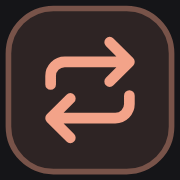
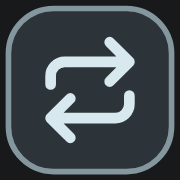
Build xgif around a layered glitch collage

Changed region(s): [[0.0278, 0.0278, 0.9722, 0.9722], [0.25, 0.1944, 0.75, 0.5], [0.25, 0.5, 0.75, 0.8056]]

diff --git a/src/style.css b/src/style.css
@@ -2,17 +2,17 @@
   color-scheme: dark;
   font-family: -apple-system, BlinkMacSystemFont, "Segoe UI", system-ui, sans-serif;
   color: #f4f3f1;
-  background: #151518;
+  background: #17191b;
   --muted: #b3b1b5;
-  --panel: #1f1f23;
-  --field: #17171a;
-  --edge: #3a393e;
-  --input-edge: #68666d;
-  --fill: #29292e;
-  --selected: #39383f;
-  --accent: #f3a389;
+  --panel: #202428;
+  --field: #171a1d;
+  --edge: #3e454a;
+  --input-edge: #69747a;
+  --fill: #2a3034;
+  --selected: #3a444b;
+  --accent: #b7d5de;
   --error: #ffc1aa;
-  --focus: #f3a389;
+  --focus: #d9e9ec;
 }
 
 * { box-sizing: border-box; }
@@ -29,33 +29,99 @@ button:disabled { cursor: wait; }
 fieldset { min-inline-size: 0; margin: 0; padding: 0; border: 0; }
 
 .workspace {
-  width: min(100% - 36px, 500px);
-  margin: clamp(84px, 21vh, 188px) auto 48px;
-}
-.intro { margin: 0 0 22px; }
-.identity { display: flex; align-items: center; gap: 10px; }
-.brand-mark {
+  position: relative;
+  isolation: isolate;
   display: grid;
-  width: 34px;
-  height: 34px;
-  place-items: center;
-  border: 1px solid #785349;
-  border-radius: 10px;
-  corner-shape: squircle;
-  background: #2e2424;
-  color: var(--accent);
+  align-items: center;
+  width: min(100% - 64px, 1080px);
+  min-height: clamp(430px, 48vw, 580px);
+  margin: clamp(62px, 12vh, 124px) auto 52px;
 }
-.brand-mark .icon { width: 19px; height: 19px; stroke-width: 1.8; }
-h1 { margin: 0; font-size: 29px; font-weight: 670; line-height: 1; letter-spacing: -.045em; }
-.intro p { margin: 10px 0 0; color: var(--muted); font-size: 15px; line-height: 1.5; text-wrap: pretty; }
+
+.collage {
+  position: absolute;
+  z-index: -1;
+  inset: 0 0 0 28%;
+  pointer-events: none;
+}
+.crop {
+  position: absolute;
+  display: grid;
+  grid-template-rows: 12px minmax(0, 1fr);
+  overflow: hidden;
+  border: 1px solid #8c9a9f;
+  border-radius: 3px;
+  background: #47545b;
+  box-shadow: 4px 8px 14px #070d13a6;
+  transition: transform 195ms ease-out;
+}
+.crop::before {
+  content: "";
+  width: 12px;
+  height: 4px;
+  margin: 4px 0 0 6px;
+  border-left: 4px solid #d4e3e6;
+  border-right: 4px solid #83939b;
+}
+.crop img { display: block; width: 100%; height: 100%; object-fit: cover; }
+.crop-left { inset: 14% 47% 32% 2%; transform: translate(-2px, 2px); }
+.crop-left img { object-position: 0 30%; filter: saturate(.65) brightness(.70); }
+.crop-tall { inset: 4% 0 20% 66%; transform: translate(0, 3px); }
+.crop-tall img { object-position: 81% 50%; filter: saturate(.9) brightness(.76); }
+.crop-main { inset: 20% 10% 21% 10%; background: #9aaeb6; border-color: #c6d2d7; }
+.crop-main::before { border-left-color: #2c383f; border-right-color: #6b7c85; }
+.crop-main img { object-position: center 47%; }
+.crop-strip {
+  inset: 51% 4% 41% 21%;
+  grid-template-rows: minmax(0, 1fr);
+  border-radius: 0;
+  transform: translate(8px, 0);
+  box-shadow: 0 3px #f0e6ce32;
+}
+.crop-strip::before { display: none; }
+.crop-strip img { object-position: 50% 58%; filter: saturate(1.2) contrast(1.1); }
+.crop-detail { inset: 72% 6% 3% 46%; transform: translate(-5px, 4px); }
+.crop-detail img { object-position: 20% 91%; transform: scale(1.55); transform-origin: 11% 80%; filter: saturate(.84) contrast(1.1); }
+.workspace:has(input[value="webp"]:checked) .crop-left { transform: translate(-10px, -4px); }
+.workspace:has(input[value="webp"]:checked) .crop-tall { transform: translate(-8px, -6px); }
+.workspace:has(input[value="webp"]:checked) .crop-main { transform: translate(5px, 4px); }
+.workspace:has(input[value="webp"]:checked) .crop-strip { transform: translate(-18px, 4px); }
+.workspace:has(input[value="webp"]:checked) .crop-detail { transform: translate(5px, -4px); }
 
 .panel {
-  border: 1px solid var(--edge);
-  border-radius: 19px;
-  corner-shape: squircle;
+  position: relative;
+  width: min(48%, 457px);
+  border: 1px solid #718087;
+  border-radius: 13px;
   background: var(--panel);
-  box-shadow: 0 6px 20px #0002;
+  box-shadow: 0 13px 38px #070b10a3, 0 0 0 1px #10161b;
 }
+.window-bar {
+  display: flex;
+  justify-content: space-between;
+  align-items: center;
+  min-height: 55px;
+  padding: 0 6px 0 13px;
+  border-bottom: 1px solid var(--edge);
+  border-radius: 12px 12px 0 0;
+  background: #2c3439;
+}
+.identity { display: flex; align-items: center; gap: 9px; }
+.brand-mark {
+  display: grid;
+  width: 28px;
+  height: 28px;
+  place-items: center;
+  border: 1px solid #84979e;
+  border-radius: 6px;
+  color: #d7e9ee;
+  background: #38484e;
+}
+.brand-mark .icon { width: 16px; height: 16px; stroke-width: 1.7; }
+h1 { margin: 0; font-size: 19px; font-weight: 700; line-height: 1; letter-spacing: -.03em; }
+.source-icon-link { display: grid; width: 44px; height: 44px; place-items: center; border-radius: 7px; color: #c1cfd5; }
+.source-icon-link .icon { width: 17px; height: 17px; }
+
 .editor { padding: 12px 12px 9px; }
 #controls { transition: opacity 140ms ease; }
 #controls:disabled { opacity: .68; }
@@ -171,22 +237,30 @@ h1 { margin: 0; font-size: 29px; font-weight: 670; line-height: 1; letter-spacin
 #result-help { margin: 9px 0 0; line-height: 1.45; text-wrap: pretty; }
 
 @media (hover: hover) {
-  .quiet:hover, .icon-button:hover, .secondary:hover { background: var(--selected); color: #fff; }
+  .quiet:hover, .icon-button:hover, .secondary:hover, .source-icon-link:hover { background: var(--selected); color: #fff; }
   .primary:hover { background: #fffdfa; }
 }
 @media (forced-colors: active) {
   .segments input:checked + span { border: 1px solid Highlight; }
 }
-@media (max-width: 520px) {
-  .workspace { margin-top: clamp(76px, 16vh, 115px); }
+@media (max-width: 740px) {
+  .workspace { display: block; width: min(100% - 34px, 500px); min-height: auto; margin: 32px auto 48px; }
+  .collage { position: relative; inset: auto; width: 100%; height: clamp(174px, 58vw, 310px); }
+  .crop-left { inset: 13% 44% 23% 3%; }
+  .crop-tall { inset: 4% 1% 12% 69%; }
+  .crop-main { inset: 17% 12% 13% 8%; }
+  .crop-strip { inset: 55% 8% 34% 19%; }
+  .crop-detail { inset: 69% 5% 2% 50%; }
+  .panel { width: 100%; margin-top: -15px; }
 }
+
 @media (max-width: 350px) {
-  .workspace { width: calc(100% - 26px); }
+  .workspace { width: calc(100% - 26px); margin-top: 25px; }
   #convert { min-width: 44px; }
   #convert span { display: none; }
 }
 @media (prefers-reduced-motion: reduce) {
-  .segments::before, #controls, .primary, .secondary, .quiet, .icon-button { transition: none; }
+  .crop, .segments::before, #controls, .primary, .secondary, .quiet, .icon-button { transition: none; }
   .accessories, .result, .trim-fields, .spinner { animation: none; }
   .primary:active, .secondary:active { transform: none; }
 }

diff --git a/index.html b/index.html
@@ -5,7 +5,7 @@
   <meta name="viewport" content="width=device-width, initial-scale=1">
   <meta name="description" content="Turn an X video into a GIF or animated WebP on your device.">
   <meta name="color-scheme" content="dark">
-  <meta name="theme-color" content="#151518">
+  <meta name="theme-color" content="#17191b">
   <title>xgif — X video to GIF and animated stickers</title>
   <link rel="canonical" href="https://wysh3.github.io/xgif/">
   <meta property="og:type" content="website">
@@ -32,18 +32,28 @@
     <symbol id="icon-share" viewBox="0 0 24 24"><path d="M12 15V3m-4 4 4-4 4 4M7 10H5a1 1 0 0 0-1 1v9a1 1 0 0 0 1 1h14a1 1 0 0 0 1-1v-9a1 1 0 0 0-1-1h-2"/></symbol>
     <symbol id="icon-copy" viewBox="0 0 24 24"><rect x="8" y="8" width="12" height="12" rx="2"/><path d="M16 8V6a2 2 0 0 0-2-2H6a2 2 0 0 0-2 2v8a2 2 0 0 0 2 2h2"/></symbol>
     <symbol id="icon-save" viewBox="0 0 24 24"><path d="M12 3v12m-5-5 5 5 5-5M4 16v4h16v-4"/></symbol>
+    <symbol id="icon-source" viewBox="0 0 24 24"><path d="m8 7-5 5 5 5m8-10 5 5-5 5M14 4l-4 16"/></symbol>
   </svg>
 
   <main class="workspace">
-    <header class="intro">
-      <div class="identity">
-        <span class="brand-mark" aria-hidden="true"><svg class="icon"><use href="#icon-loop"/></svg></span>
-        <h1>xgif</h1>
-      </div>
-      <p>X videos to GIFs and animated stickers.</p>
-    </header>
+    <div class="collage" aria-hidden="true">
+      <div class="crop crop-left"><img src="./loop-study.webp" width="1200" height="800" alt=""></div>
+      <div class="crop crop-tall"><img src="./loop-study.webp" width="1200" height="800" alt=""></div>
+      <div class="crop crop-main"><img src="./loop-study.webp" width="1200" height="800" alt="" fetchpriority="high"></div>
+      <div class="crop crop-strip"><img src="./loop-study.webp" width="1200" height="800" alt=""></div>
+      <div class="crop crop-detail"><img src="./loop-study.webp" width="1200" height="800" alt=""></div>
+    </div>
 
     <div class="panel">
+      <header class="window-bar">
+        <div class="identity">
+          <span class="brand-mark" aria-hidden="true"><svg class="icon"><use href="#icon-loop"/></svg></span>
+          <h1>xgif<span class="visually-hidden"> — X videos to GIFs and animated stickers</span></h1>
+        </div>
+        <a class="source-icon-link" href="https://github.com/wysh3/xgif" aria-label="Source code on GitHub" title="Source code on GitHub">
+          <svg class="icon" aria-hidden="true"><use href="#icon-source"/></svg>
+        </a>
+      </header>
       <form id="converter">
         <fieldset id="controls">
           <div class="editor">
